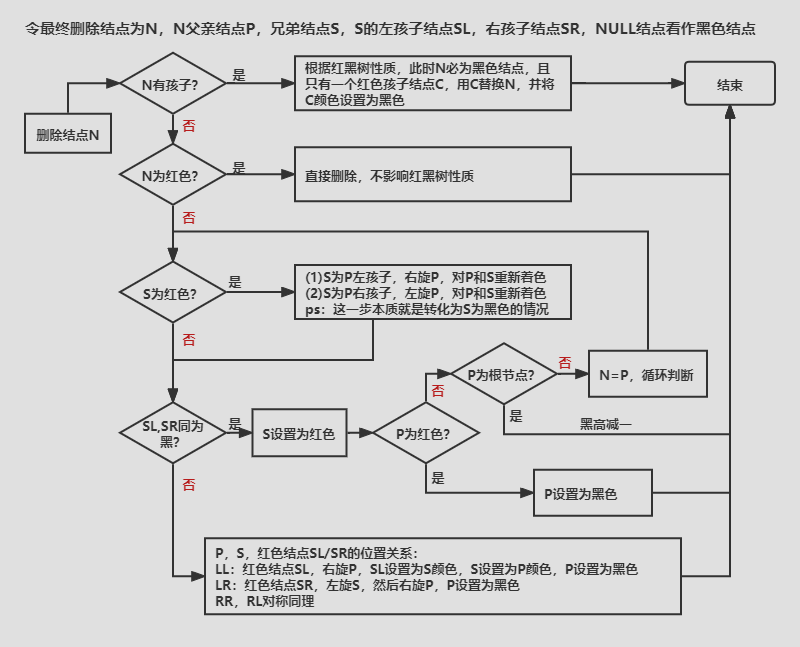
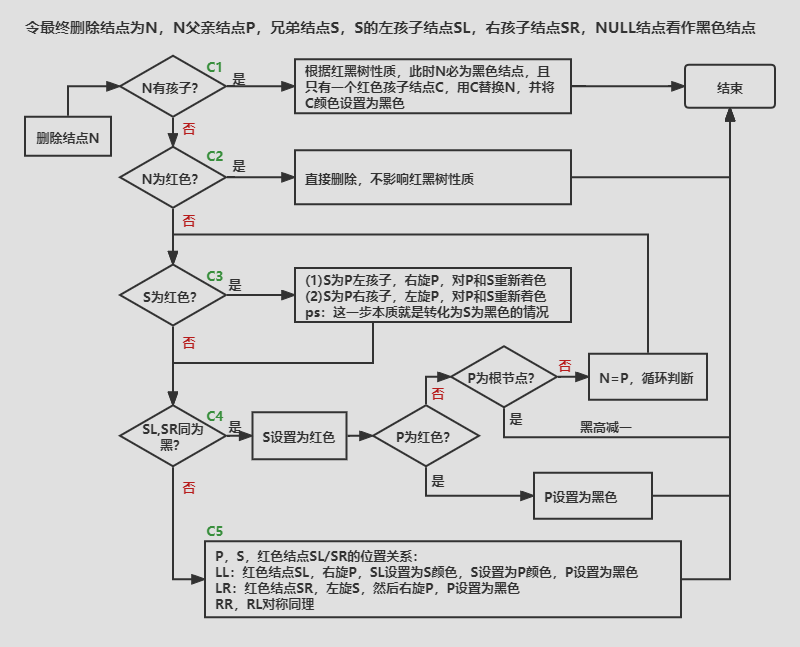
update readme

diff --git a/README.md b/README.md
@@ -111,15 +111,77 @@ typedef struct RBTree{
   
 与AVLTree的实现类似，RBTree创建时同样需要传入自定义比较函数和键值大小，RBNode新增父指针parent和颜色标志color，因为插入总是以红色结点插入，所以将红色的标志值定义为0，使结点清零初始化便为红色结点，同时将黑色标志值定义为1，交换颜色的时候异或取反便可；RBTree的起源是从4阶B树得到启发，要彻底理解RBTree最好先熟悉 [B-Tree](#7)  
 
-RBTree引理：一棵有N个结点的红黑树高度h<=2log(2,N+1)，证明：  
+RBTree引理：一棵有N个结点的红黑树高度h<=2log(2, N+1)，证明：  
 
 1. 将RBTree合并为2-3-4树(红色结点向黑色父结点合并)，令合并前高度为h，合并后高度为h'，则h<=2h'，当某分支红黑结点各一半时等号成立
-2. 合并后可得N>=2^h'-1，故h'<=log(2,N+1)，当不存在红色结点时等号成立 (其实这一步可以省略理解，因为带有N个结点的二叉树，必然有N+1个空指针(不算父指针)，RBTree合并为2-3-4树后，每条分支等高，直接得出h'<=log(2,N+1))
-3. 因为h<=2h'，故h<=2log(2,N+1)，所以RBTree的查找复杂度为log(2, N)
+2. 合并后可得N>=2^h'-1，故h'<=log(2, N+1)，当不存在红色结点时等号成立 (其实这一步可以省略理解，因为带有N个结点的二叉树，必然有N+1个空指针(不算父指针)，RBTree合并为2-3-4树后，每条分支等高，直接得出h'<=log(2, N+1))
+3. 因为h<=2h'，故h<=2log(2, N+1)，所以RBTree的查找复杂度为log(2, N)
 
 RBTree插入和删除步骤：  
-![insert](https://github.com/ccencon/structdata/blob/main/images/rbtree_insert.png)
-![erase](https://github.com/ccencon/structdata/blob/main/images/rbtree_erase.png)  
+<span id="6-1">![insert](https://github.com/ccencon/structdata/blob/main/images/rbtree_insert.png)</span>  
+<span id="6-2">![erase](https://github.com/ccencon/structdata/blob/main/images/rbtree_erase.png)</span>  
 [**参考链接：**]()&nbsp;[红黑树上篇](https://mp.weixin.qq.com/s/DXh93cQaKRgsKccmoQOAjQ)&nbsp;&nbsp;[红黑树中篇](https://mp.weixin.qq.com/s/tnbbvgPyqz0pEpA76rn_1g)&nbsp;&nbsp;[红黑树下篇](https://mp.weixin.qq.com/s/oAyiRC_O-N5CHqAjt2va9w)&nbsp;&nbsp;[通过2-3-4树理解红黑树](https://zhuanlan.zhihu.com/p/269069974)
 ## <span id="7">B-Tree</span>
+```c
+typedef struct HeaderNode{
+	off_t rootPointer;
+	size_t keySize;
+	size_t valSize;
+	int pageSize;
+}HeaderNode;
+typedef ssize_t BNodeST;
+typedef struct BNode{
+	off_t* childPointers;
+	void* pKey;
+	void* pValue;
+	off_t selfPointer;//标记这个node在文件的偏移位置,为0时代表新插入的node,还没有写入文件
+	BNodeST size;
+}BNode;
+typedef bool(*BKeyCompareFuncT)(const void*, const void*);
+typedef void(*BForEachFuncT)(const void*, const void*);
+typedef struct BTree{
+	HeaderNode head;
+	BKeyCompareFuncT equalFunc;
+	BKeyCompareFuncT lessFunc;
+	void* tmpRet;
+	int fd;
+	unsigned short maxNC;
+	unsigned short minNC;
+}BTree;
+```
+B树是一种平衡多路查找树，特征如下：  
+
++	任意分支等高，叶子结点永远位于同一层（这里的叶子结点是实际存在的树结点，事实上很多教材在介绍B树的时候把叶子结点看作查找失败的NULL结点，这或许是来源于作者的思路？但B树好像并不需要按照这种方式理解，判断一个结点是否为叶子结点时也只需判断第一个孩子指针是否为空）
++	除叶子结点外一个含有N个关键字的结点必然有N+1个孩子，B树的阶为结点可以容纳最大关键字数+1
++	linux对外存与内存的数据交换以页为单位，所以B树结点大小通常等于页大小；除根结点外，结点关键字数位于区间[t-1, 2t-1]，t>=2，其中t为B树的最小度数；计算结点最大关键字数通常为 ⌊page_size/(key_size+value_size+point_size)⌋（根据实现方式有少许区别，比如这个实现在每页起始写入了4字节的关键字数）；关键字数区间[t-1, 2t-1]可以保证B树结点分裂或者合并时依然保持B树特性
++	任意结点中任意两个关键字k1，k2之间的关键字和孩子结点的关键字必然大于k1，小于k2
++	B树增删改查的时间复杂度log(2t-1, N) ~ log(t-1, N)
+  
+下面是B树的插入和删除步骤，同时将红黑树转化为2-3-4树进行比较：  
+
+[**插入步骤：**]()  
+
+1. 若插入后的结点关键字数不大于2t-1，则插入成功，否则转到步骤2
+    - 红黑树总是以红色结点插入，若插入后关键字数不大于3，会有三种情况：
+    	1. 此结点为根结点，设置为黑色
+    	2. 父结点为黑色，这种情况不需要做处理
+    	3. 父结点为红色，这时候叔叔结点必为NULL结点或者黑色结点，这种情况旋转后变色便可（叔叔结点为NULL结点是最开始处理的叶子结点情况，为黑色结点时是结点分离上升后的情况）
+2. 以⌊t⌋为分界将结点拆分为左中右3部分，左边部分保留在原结点中，右边部分移动到新结点，将中间部分和指向新结点的指针上升到父结点中，然后继续进行步骤1判断；若没有父结点，则产生了新的根结点
+    - 相当于将父结点和叔叔结点设置为黑色，祖父结点设置为红色，转到步骤1判断
+
+B树插入方法并不唯一，各种方法大同小异，文中实现是采用提前分裂的方式进行插入，去除了回溯的步骤，但是在顺序插入的时候，这种方式会造成绝大部分的结点只包含最小个数的关键字从而增加结点个数和树深度，所以这种实现方式并不推荐  
+
+[**删除步骤：**]()  
+
+1. 若结点执行删除或关键字下移操作后关键字数仍大于等于t-1，则删除成功，否则转到步骤2
+	- 执行删除或下移操作后必为2-或者3-结点，相当于红黑树删除的是红色结点（如果删除的是黑色结点另外一个红色结点自动变为黑色）
+	- 叶子结点删除操作对应红黑树中下面两种情况： 
+		1. 删除结点为红色，直接删除 [**C2**](#6-2)
+		2. 删除结点为黑色，此时必然有且只有一个红色孩子，将此孩子结点替换删除结点并将颜色设置为黑 [**C1**](#6-2)
+2. 若结点相邻兄弟关键字数大于t-1，则将兄弟结点最小（或最大）的关键字上移到父结点，并将父结点对应关键字下移到此结点，若此结点不是叶子，还需移动对应孩子指针；若相邻兄弟关键字数均等于t-1则转到步骤3
+	- 这种情况相当于红黑树中兄弟结点是黑色结点且有红色孩子，这时候旋转变色即可 [**C5**](#6-2)
+3. 父结点对应关键字下移并将此结点与某个兄弟结点合并，父结点关键字数减一，若父结点为根结点且关键字数为0，重设根结点，否则将父结点转到步骤1判断
+	- 下移的关键字相当于红黑树中对兄弟结点和父结点重新着色的情况，因为下移关键字必为红黑树中的红色结点，下移到新结点后变为黑色，左右关键字变为红色，相当于删除图 [**C4**](#6-2)，如果下移关键字是黑色结点则需进行 [**C3**](#6-2)步骤将下移结点转化为红色结点
+
+同样的，B树删除方法也不唯一，比如步骤2和步骤3，不是非得判断两个相邻兄弟都不能借才合并，可以在第一个相邻兄弟不够借之后便选择与之合并，这样树结点数还能减少1，不过因为父结点关键字数减1，可能会增加回溯的路程，所以具体的选择就见仁见智了
 ## <span id="8">B+Tree</span>
